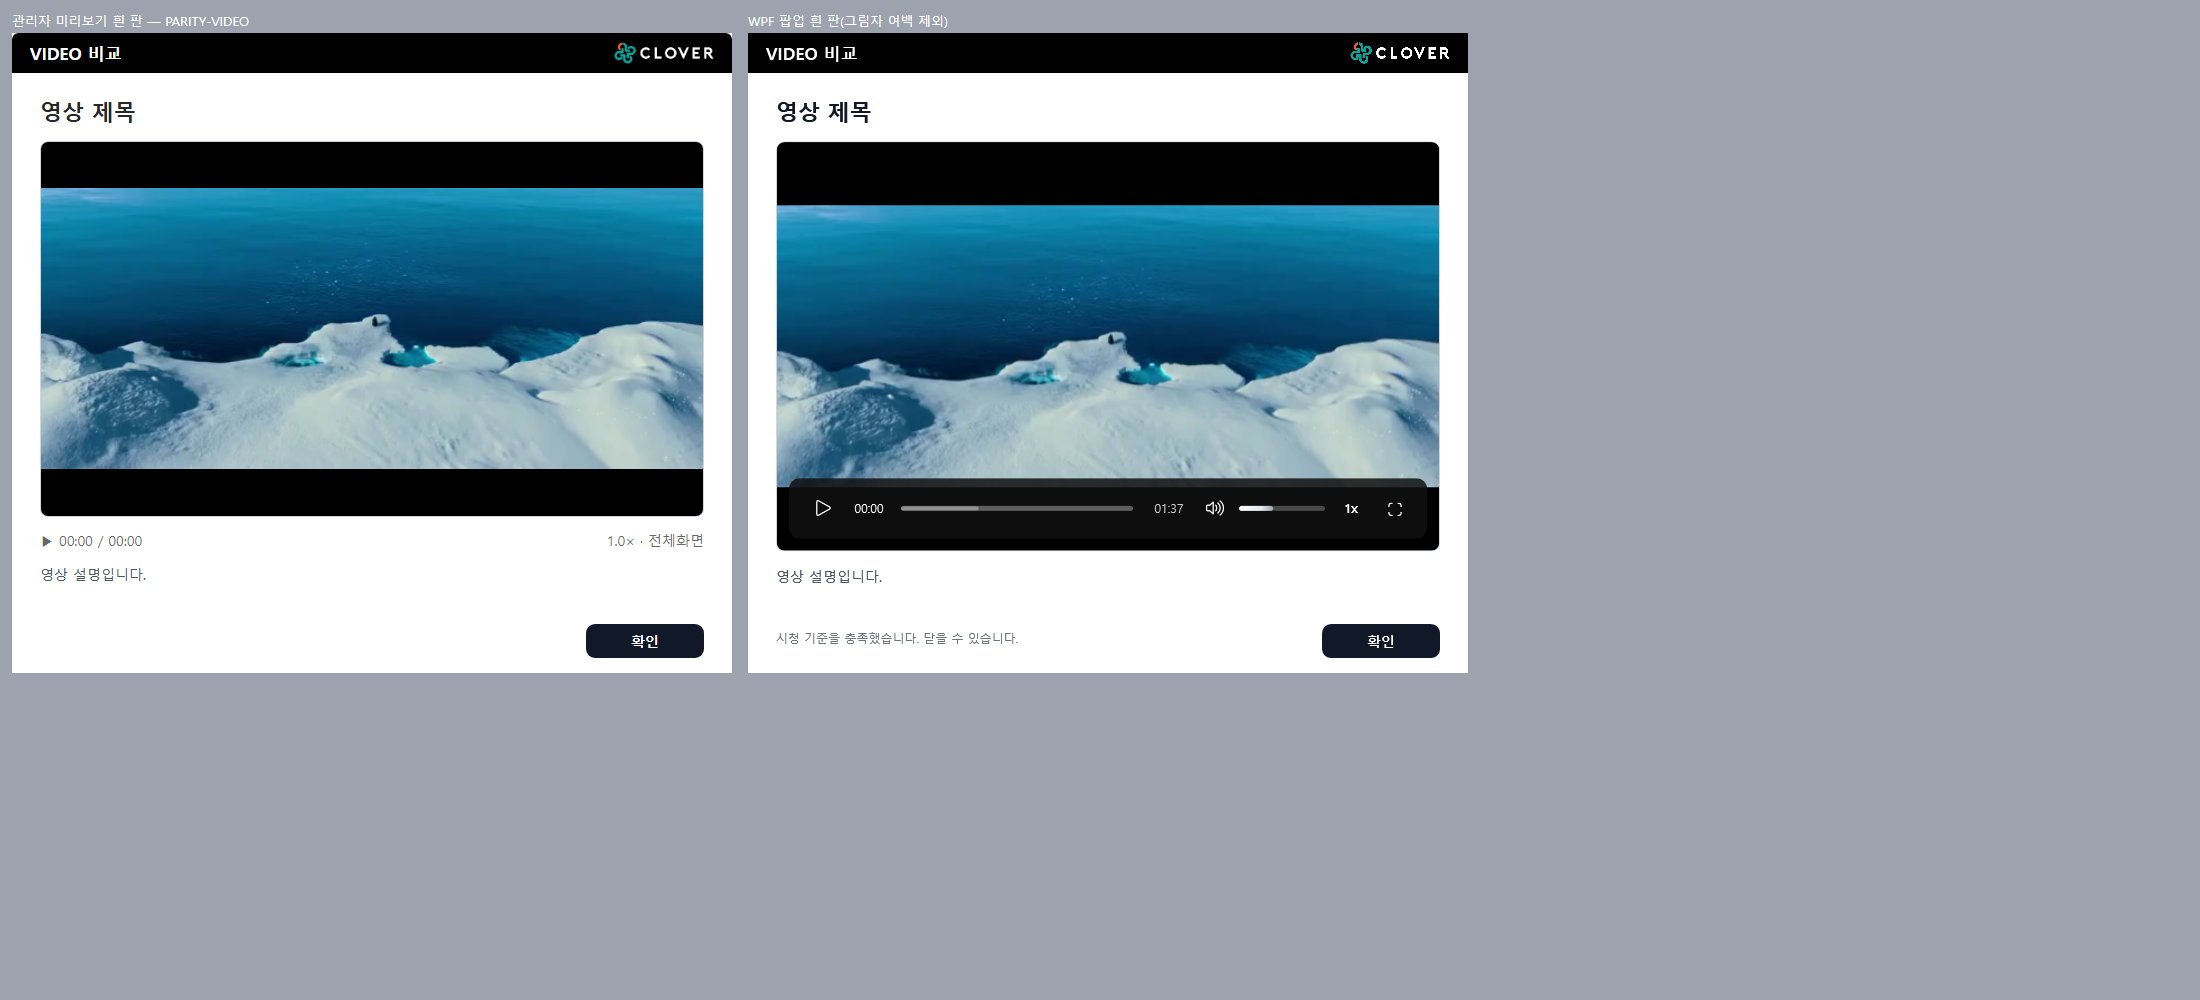
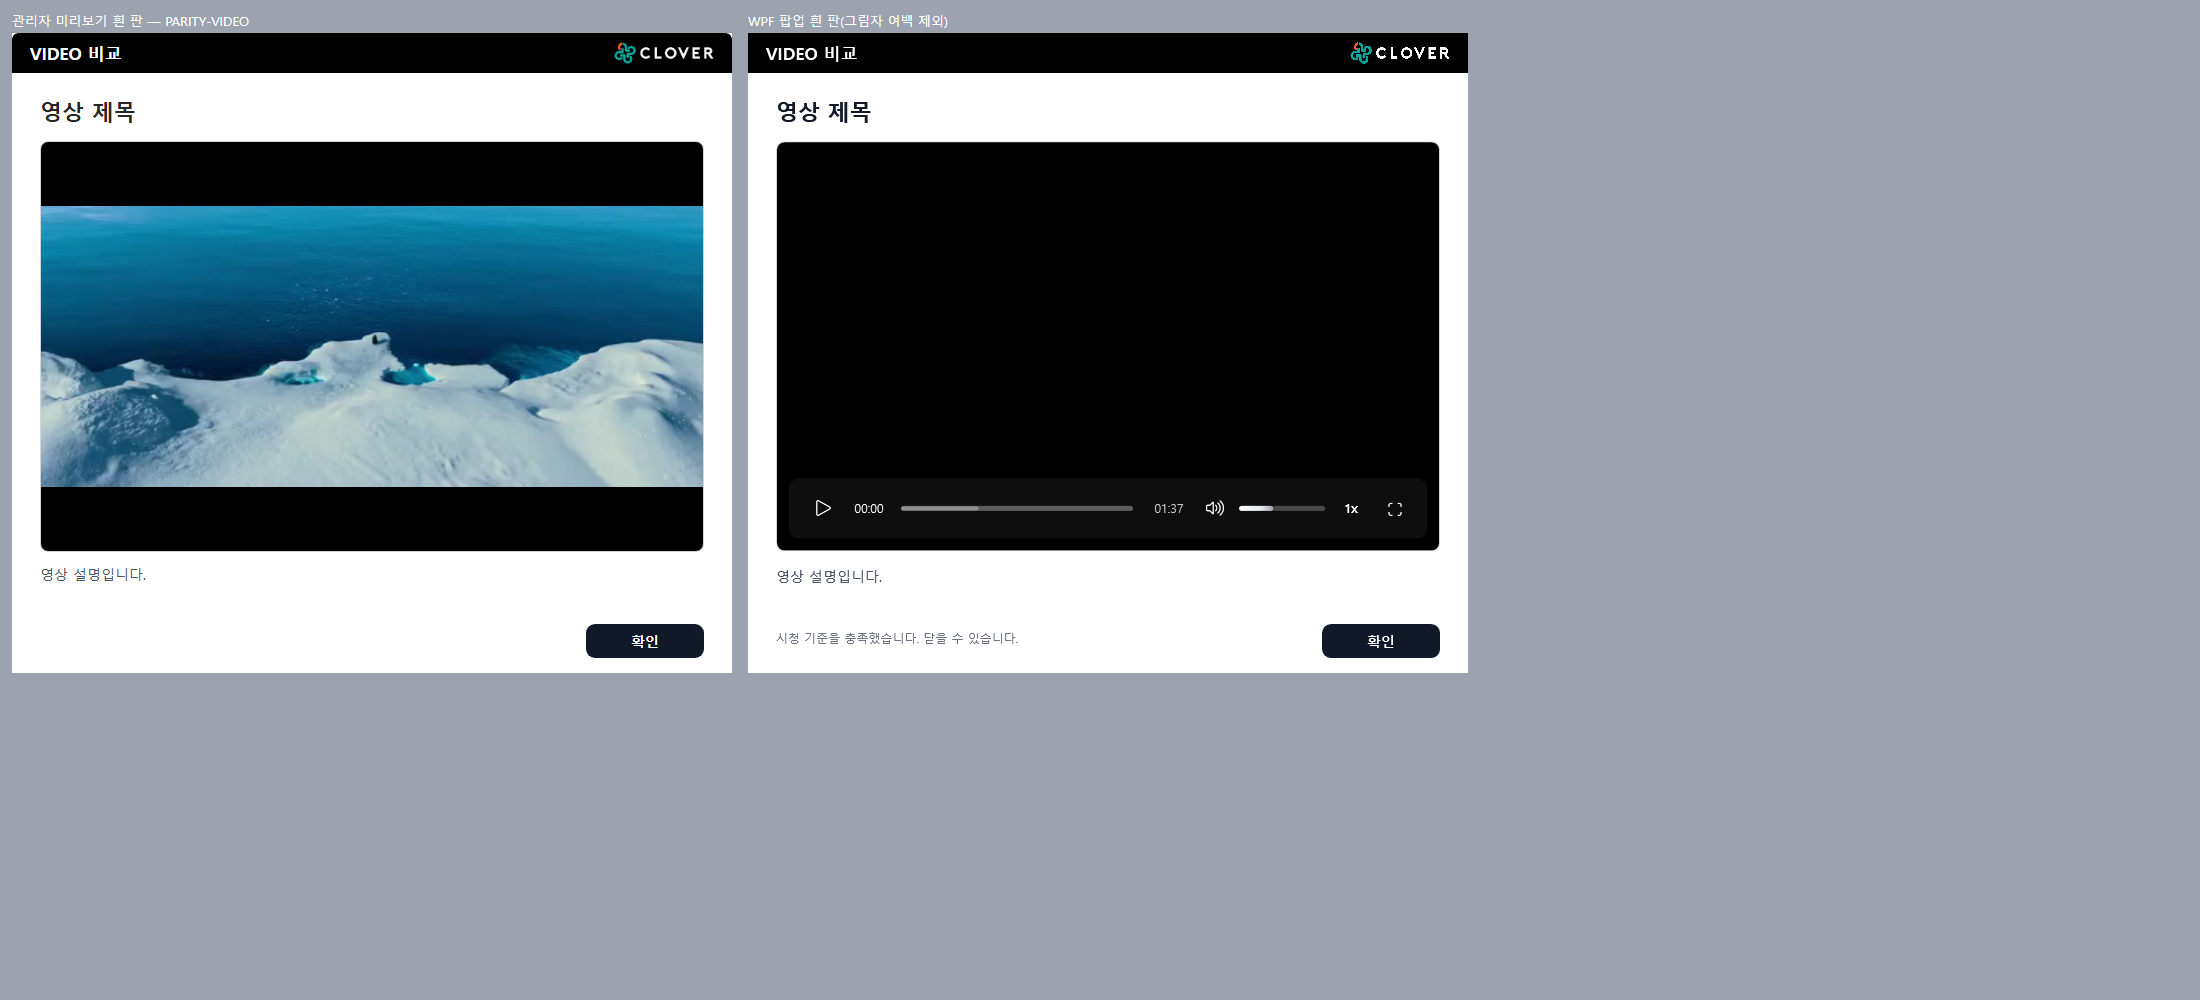
dev: 61-23_코드가이드UI가이드_반영

Changed region(s): [[0.0, 0.186, 0.68, 0.558], [0.1855, 0.279, 0.2164, 0.31]]

diff --git a/zero-rule-web/main/src/features/PopupcommonComponent/guide/guideData.ts b/zero-rule-web/main/src/features/PopupcommonComponent/guide/guideData.ts
@@ -258,7 +258,7 @@ export const COMPONENTS: GuideComponent[] = [
       { name: 'maxPlainBytes', type: 'number', description: '서식 없는 문자열(plainText)의 UTF-8 바이트 상한. 넘는 편집은 onChange로 보내지 않고 직전 내용·커서로 되돌리며 안내 문구를 띄웁니다(한글 조합은 끝날 때 확인). 생략하면 제한 없음. PopupQuestionEditor가 선택지(퀴즈·설문)에 300을 넘깁니다.' },
     ],
     outputs: [{ name: 'onChange', type: '(blocks: RichBlock[], plainText: string) => void', required: true, description: '입력할 때마다 서식 본문과 일반 글자를 돌려줍니다.' }],
-    values: ['TEXT: content.textBlocks + content.plainText', '설문·퀴즈: content.surveyTitleBlocks·descriptionBlocks', '문항: question.titleBlocks·descriptionBlocks, 선택지: option.textBlocks'],
+    values: ['TEXT: content.textBlocks + content.plainText', '설문·퀴즈: content.surveyTitleBlocks·descriptionBlocks', 'VIDEO: content.descriptionBlocks(2026-11-24)', '문항: question.titleBlocks·descriptionBlocks, 선택지: option.textBlocks'],
     reuse: ['HTML은 저장하지 않습니다. onChange로 받은 두 값을 함께 저장합니다.', '툴바를 켜고 끄려면 화면의 state를 hideToolbar에 넘깁니다. 입력 내용은 유지됩니다.', '툴바·라벨·서식 버튼을 모두 끄면 서식은 우클릭(또는 키보드)으로만 열려 눈에 띄지 않습니다. 화면에 안내를 두세요.', '편집기를 여러 개 두어도 서로 영향을 주지 않습니다.', 'ckeditor5를 직접 import하지 말고 이 컴포넌트를 쓰세요.'],
     example: `const [body, setBody] = useState<{ textBlocks: RichBlock[]; plainText: string }>({ textBlocks: [], plainText: '' });
 <PopupRichTextEditor key={editorKey} label="본문" initialBlocks={body.textBlocks}
@@ -377,16 +377,16 @@ const [passingScore, setPassingScore] = useState<number | null>(null);
   },
   {
     name: 'PopupPreviewDialog', file: 'PopupPreviewDialog.tsx',
-    summary: '실제 크기로 띄워 보는 미리보기 창입니다. 위치·배경 어둡게 처리도 WPF와 같습니다.',
+    summary: '실제 크기로 띄워 보는 미리보기 창입니다. 상단에서 기준 화면(해상도)·배율을 골라 그 화면에서 WPF와 같은 크기·위치로 봅니다. 위치·배경 어둡게 처리도 WPF와 같습니다.',
     props: [
       { name: 'popup', type: 'AdminPopupDetail', required: true, description: '미리 볼 값. withPreviewFallback(state)로 만들어 넘깁니다.' },
       { name: 'open', type: 'boolean', required: true, description: '열림 여부' },
-      { name: 'recommendedSize', type: 'Size | null', description: '옆 미리보기가 알려 준 이미지 창 크기' },
+      { name: 'recommendedSize', type: 'Size | null', description: '(호환용, 쓰지 않음) 예전에 옆 미리보기의 이미지 창 크기를 넘기던 값. 지금은 선택한 기준 화면으로 다시 계산합니다' },
       { name: 'showPlaceholders', type: 'boolean', description: '값이 없는 자리의 예시 문구·영상 영역 안내 문구 표시. 기본값 false' },
     ],
     outputs: [{ name: 'onClose', type: '() => void', required: true, description: '닫기 버튼·Esc를 누르면 호출됩니다.' }],
-    values: ['popup 전체(값을 바꾸지 않음)'],
-    reuse: ['미리보기 안에서 고른 답은 닫으면 지워집니다.'],
+    values: ['popup 전체(값을 바꾸지 않음)', '기준 화면: 해상도 13종 × 배율 100·125·150·175%. 내 모니터와 같은 항목에 * 표시, 처음 선택', '크기·위치: 작업 영역(해상도 ÷ 배율, 작업 표시줄 40 제외) 기준. 브라우저보다 크면 축소 없이 스크롤'],
+    reuse: ['미리보기 안에서 고른 답·기준 화면 선택은 닫아도 저장 값에 들어가지 않습니다.'],
     example: PREVIEW_EXAMPLE,
     processes: ['preview'],
   },
@@ -397,6 +397,7 @@ const [passingScore, setPassingScore] = useState<number | null>(null);
       { name: 'popup', type: 'AdminPopupDetail', required: true, description: '미리 볼 값. withPreviewFallback(state)로 만들어 넘깁니다.' },
       { name: 'showBackground', type: 'boolean', description: '바깥 배경까지 그릴지. 기본값 true' },
       { name: 'showPlaceholders', type: 'boolean', description: '값이 없는 자리의 예시 문구·영상 영역 안내 문구 표시. 기본값 false' },
+      { name: 'workArea', type: 'Size', description: '이미지 권장 창 크기를 계산할 작업 영역. 없으면 현재 모니터 작업 영역' },
     ],
     outputs: [
       { name: 'onClose', type: '() => void', description: '하단 버튼으로 닫을 때 호출됩니다.' },
@@ -437,6 +438,10 @@ export const FUNCTIONS: GuideFunction[] = [
   { name: 'isScoredQuizQuestion / scoredQuestionCount', scope: 'COMMON', file: 'popupQuizRule.ts', input: 'question / questions', output: 'boolean / number', description: '채점 문항(isScored=true)인지, 채점 문항이 몇 개인지 셉니다. 만점은 채점 문항 수(문항당 1점)이고 비채점 주관식은 빠집니다.' },
   { name: 'QUIZ_QUESTION_SCORE / SCORED_QUESTION_REQUIRED', scope: 'COMMON', file: 'popupQuizRule.ts', input: '(상수)', output: 'number(1) / string', description: '채점 문항당 배점(1점)과 채점 문항이 없을 때의 안내 문구입니다. 퀴즈·영상 퀴즈는 채점 문항이 한 개 이상 있어야 저장됩니다.' },
   { name: 'QUESTION_MAX', scope: 'COMMON', file: 'PopupQuestionEditor.tsx', input: '(상수)', output: 'number(30)', description: '설문·퀴즈 최대 문항 수 기본값입니다. PopupQuestionEditor maxQuestions·validatePopupQuestions에 다른 값을 넘기지 않으면 이 값을 씁니다.' },
+  { name: 'applyVideoFixedDescription / stripVideoFixedDescription', scope: 'COMMON', file: 'videoFixedDescription.ts', input: 'popup(popupType, content)', output: '같은 타입(새 객체)', description: '동영상·동영상+퀴즈 설명 맨 앞에 고정 안내 문구를 오른쪽 정렬 문단으로 붙이거나(미리보기·저장 값), 불러온 값에서 뗍니다(에디터 표시). 여러 번 붙여도 하나만 남고 다른 유형은 그대로입니다.' },
+  { name: 'VIDEO_FIXED_DESCRIPTION', scope: 'COMMON', file: 'videoFixedDescription.ts', input: '(상수)', output: 'string', description: '동영상 고정 안내 문구입니다. 바꾸면 이전 문구를 PREVIOUS_VIDEO_FIXED_DESCRIPTIONS에 넣어 기존 데이터도 떼어 냅니다.' },
+  { name: 'adaptiveWindowForImage', scope: 'COMMON', file: 'imagePreviewLayout.ts', input: 'popup, natural: Size, width?: number | null', output: '{ window, image, limited } | null', description: '이미지 ADAPTIVE(창 우선)에서 이미지 바깥 띠가 생기지 않는 창 크기를 구합니다. 가로를 주면 세로를 계산하고, 가로가 원본보다 크면 원본 기준으로 줄이고 limited=true입니다.' },
+  { name: 'useNaturalImageSize', scope: 'COMMON', file: 'useNaturalImageSize.ts', input: 'url', output: 'Size | null', description: '이미지 원본 크기를 읽는 hook입니다. 주소가 없거나 읽는 중·실패면 null입니다.' },
   { name: 'validatePopupSchedule', scope: 'COMMON', file: 'PopupScheduleFields.tsx', input: 'value: PopupScheduleValue', output: 'string | null', description: '노출 시간대 입력 오류를 확인합니다.' },
   { name: 'popupFontSize / popupMinimumSize', scope: 'COMMON', file: 'popupCommon.ts', input: 'popup, key', output: 'number | null / { width, height }', description: '글자 크기(10~40)와 최소 창 크기(300)를 읽습니다.' },
   // 기존 팝업 등록(RgstPop)

diff --git a/zero-rule-web/main/src/features/PopupcommonComponent/guide/guideNotices.ts b/zero-rule-web/main/src/features/PopupcommonComponent/guide/guideNotices.ts
@@ -54,6 +54,41 @@ export const NOTICE_STATUS_LABELS: Record<NoticeStatus, string> = {
 
 export const GUIDE_NOTICES: GuideNotice[] = [
   {
+    id: '2026-11-24-preview-reference-screen', date: '2026-11-24', category: 'CHANGED', status: 'DONE', doneDate: '2026-11-24',
+    title: '실제 크기 미리보기 — 기준 화면(해상도·배율) 선택',
+    body: ['PopupPreviewDialog 상단에서 기준 화면 해상도(13종)와 Windows 배율(100·125·150·175%)을 고릅니다. 팝업 크기·위치는 그 화면의 작업 영역(해상도 ÷ 배율, 작업 표시줄 40 제외)으로 WPF와 같이 계산합니다.',
+      '선택한 해상도 크기의 가상 데스크톱을 실제 크기로 그리고, 브라우저보다 크면 줄이지 않고 스크롤합니다. 내 모니터와 같은 해상도·배율에는 * 표시가 붙습니다. 화면 상한은 FIXED·AUTO·IMAGE 모두 작업 영역의 90%(RATIO 100%)입니다.',
+      'recommendedSize는 더 이상 쓰지 않지만 넘겨도 오류는 없습니다.'],
+    components: ['PopupPreviewDialog', 'PopupPreview'],
+    action: '바꿀 코드는 없습니다. recommendedSize는 지워도 됩니다.',
+  },
+  {
+    id: '2026-11-24-video-description-blocks', date: '2026-11-24', category: 'ADDED', status: 'DONE', doneDate: '2026-11-24',
+    title: '동영상 설명 서식(descriptionBlocks)·고정 안내 문구',
+    body: ['동영상 설명도 설문·퀴즈처럼 서식(content.descriptionBlocks)으로 저장합니다. 서버가 description을 서식에서 만들고 WPF는 문단 정렬·서식으로 표시합니다.',
+      '동영상·동영상+퀴즈는 미리보기·저장 값에 고정 안내 문구를 오른쪽 정렬 문단으로 붙입니다(applyVideoFixedDescription). 불러올 때는 떼어(stripVideoFixedDescription) 에디터에 사용자 입력만 보입니다.',
+      '미리보기 영상 아래 컨트롤 모형 줄(▶ 00:00 / 00:00 · 1.0× · 전체화면)은 없앴습니다.'],
+    components: ['PopupPreview', 'PopupRichTextEditor', 'applyVideoFixedDescription', 'stripVideoFixedDescription', 'VIDEO_FIXED_DESCRIPTION'],
+    action: '동영상 설명 입력을 PopupRichTextEditor로 바꾸고(descriptionBlocks·description 함께 갱신), 미리보기·저장 값에 applyVideoFixedDescription, 불러오기에 stripVideoFixedDescription을 씁니다. 서버는 VIDEO descriptionBlocks를 받도록 반영돼 있어야 저장됩니다.',
+    tab: 'function',
+  },
+  {
+    id: '2026-11-24-image-adaptive-fit', date: '2026-11-24', category: 'ADDED', status: 'DONE', doneDate: '2026-11-24',
+    title: '이미지 창 우선(ADAPTIVE) — 이미지에 맞춘 창 크기',
+    body: ['ADAPTIVE는 가로·세로가 창 크기라 이미지 칸 비율이 이미지와 다르면 위아래·좌우 띠가 보입니다. adaptiveWindowForImage가 가로에서 띠가 생기지 않는 세로를 계산합니다.',
+      '등록 화면은 "이미지에 맞춰 세로 자동"(세로 잠금)과 "이미지 크기에 맞추기"를 둡니다. 신규는 자동을 켜고, 수정·불러오기는 저장 값을 바꾸지 않도록 끈 채 시작합니다. 가로가 원본보다 크면 여백 없는 최대 가로를 안내합니다.'],
+    components: ['adaptiveWindowForImage', 'useNaturalImageSize'],
+    action: '이미지 크기 입력 화면에서 쓰려면 useNaturalImageSize로 원본 크기를 읽고 adaptiveWindowForImage 결과의 window.height를 세로에 넣습니다.',
+    tab: 'function',
+  },
+  {
+    id: '2026-11-24-schedule-row-align', date: '2026-11-24', category: 'CHANGED', status: 'DONE', doneDate: '2026-11-24',
+    title: '노출 시간대 입력 줄 정렬',
+    body: ['종료 시각 칸 아래 빈 안내 자리가 있어 시작 칸과 줄이 맞지 않던 문제를 고쳤습니다. "다음 날까지(자정 초과)"는 자정을 넘길 때만 같은 줄에 표시합니다.'],
+    components: ['PopupScheduleFields'],
+    action: '바꿀 코드는 없습니다.',
+  },
+  {
     id: '2026-11-19-rich-custom-font', date: '2026-11-19', category: 'ADDED', status: 'DONE', doneDate: '2026-11-19',
     title: '서식 본문 회사 글꼴 등록(registerPopupRichFonts)',
     body: ['기본 4가지 글꼴(맑은 고딕·굴림·돋움·바탕) 외에 회사 글꼴을 서식 선택지에 추가할 수 있습니다. 저장 값은 Windows 글꼴 패밀리 이름이며 서버를 거쳐 WPF에 그대로 전달됩니다.',

diff --git a/zero-rule-web/main/src/features/PopupcommonComponent/useNaturalImageSize.ts b/zero-rule-web/main/src/features/PopupcommonComponent/useNaturalImageSize.ts
@@ -8,7 +8,7 @@ import type { Size } from './imagePreviewLayout';
  * - out: Size | null 원본 가로·세로(px). 주소가 없거나 읽기 실패·로딩 중이면 null
  * - 등록 화면에서 ADAPTIVE 창 크기를 이미지에 맞출 때(adaptiveWindowForImage) 쓴다. 주소가 바뀌면 이전 값은 버린다.
  */
-export default function useNaturalImageSize(url: string | null | undefined): Size | null {
+export function useNaturalImageSize(url: string | null | undefined): Size | null {
   const [loaded, setLoaded] = useState<{ url: string; size: Size } | null>(null);
   const source = (url ?? '').trim();
   useEffect(() => {
@@ -24,3 +24,5 @@ export default function useNaturalImageSize(url: string | null | undefined): Siz
   }, [source]);
   return loaded && loaded.url === source ? loaded.size : null;
 }
+
+export default useNaturalImageSize;

diff --git a/zero-rule-web/main/src/features/PopupcommonComponent/index.ts b/zero-rule-web/main/src/features/PopupcommonComponent/index.ts
@@ -24,3 +24,6 @@ export * from './popupCommon';
 export * from './popupPreviewFallback';
 export * from './popupRichText';
 export type { Size } from './imagePreviewLayout';
+export { adaptiveWindowForImage, type AdaptiveImageWindow } from './imagePreviewLayout';
+export { useNaturalImageSize } from './useNaturalImageSize';
+export { VIDEO_FIXED_DESCRIPTION, applyVideoFixedDescription, stripVideoFixedDescription } from './videoFixedDescription';

diff --git a/version-history/CHANGELOG.md b/version-history/CHANGELOG.md
@@ -1,5 +1,13 @@
 # 변경 이력
 
+## 2026-11-24-13 — dev: 61-23_코드가이드UI가이드_반영
+
+- 이유 · 2026-11-24-10·11·12 변경이 관리자 웹 공통 컴포넌트 가이드(코드 가이드)와 61 레이아웃 가이드(UI 가이드)에 빠져 있었음.
+- 변경 · 코드 가이드: `PopupPreviewDialog` 설명(기준 화면 해상도·배율, `recommendedSize` 호환용)·`PopupPreview` `workArea` prop·서식 필드 목록(VIDEO `descriptionBlocks`) 갱신, 함수 목록에 `applyVideoFixedDescription / stripVideoFixedDescription`·`VIDEO_FIXED_DESCRIPTION`·`adaptiveWindowForImage`·`useNaturalImageSize` 추가(`index.ts` 공개 export 추가, `useNaturalImageSize` 이름 있는 export 추가), 변경 공지 4건(기준 화면·VIDEO 설명 서식/고정 문구·IMAGE 창 맞춤·시간대 정렬) 추가. UI 가이드: VIDEO·VIDEO+QUIZ 번호표에서 삭제된 컨트롤 줄 항목을 빼고 그림 4장(guide·side) 재생성.
+- 주요 파일 · `zero-rule-web/main/src/features/PopupcommonComponent/guide/guideData.ts`, `guide/guideNotices.ts`, `index.ts`, `useNaturalImageSize.ts`, `docs/design/61_POPUP_LAYOUT_GUIDE.md`, `docs/design/61_popup_layout_guide/PARITY-VIDEO*.png`.
+- 검증 · `verify-popup-guide-registry` 453건 통과(새 export·공지 대상 검사 포함), `tsc --noEmit`·eslint 통과, 재생성 그림 육안 확인(컨트롤 줄 없음). 관리자 웹 가이드 실화면 미확인.
+- 상태 · 커밋·원격 반영.
+
 ## 2026-11-24-12 — dev: 팝업일정_종료시간정렬_수정
 
 - 이유 · 노출 시간대 입력에서 종료 시각 칸에만 helperText(빈 문자열 포함)가 붙어 칸 아래 빈 `<p>`가 생기고 시작 칸·`~`·삭제 버튼과 줄이 어긋남.

diff --git a/docs/design/61_POPUP_LAYOUT_GUIDE.md b/docs/design/61_POPUP_LAYOUT_GUIDE.md
@@ -229,7 +229,7 @@ node scripts/verify-popup-parity.cjs
 |---|---|---|---|
 | 1 | VIDEO 비교 | 17/600 | 17/600 |
 | 2 | 영상 제목 | 22/600 | 22/600 |
-| 3 | ▶ 00:00 / 00:00 | 14/400 | — |
+| 3 | 영상 설명입니다. | 14/400 | 14/400 |
 | 4 | 확인 | 14/600 | 14/600 |
 
 최소·최대(그림 아래 칸과 같음):
@@ -251,10 +251,10 @@ node scripts/verify-popup-parity.cjs
 |---|---|---|---|
 | 1 | VIDEO+QUIZ 비교 | 17/600 | 17/600 |
 | 2 | 영상 퀴즈 | 25/600 | 22/600 |
-| 3 | ▶ 00:00 / 00:00 | 12/400 | — |
-| 4 | 영상을 보고 답하세요. | 14/400 | 14/400 |
-| 5 | 영상에서 확인한 내용은? *하나 선택 | 16/600 | — |
-| 6 | 필수 응답 0/1 · 1문항 남음 | 12/400 | — |
+| 3 | 영상을 보고 답하세요. | 14/400 | 14/400 |
+| 4 | 영상에서 확인한 내용은? *하나 선택 | 16/600 | — |
+| 5 | 하나 선택 | 12/400 | 12/400 |
+| 6 | 필수 응답 0/1 · 1문항 남음 | 12/400 | 12/400 |
 | 7 | 제출 | 14/600 | 14/600 |
 
 최소·최대(그림 아래 칸과 같음):
